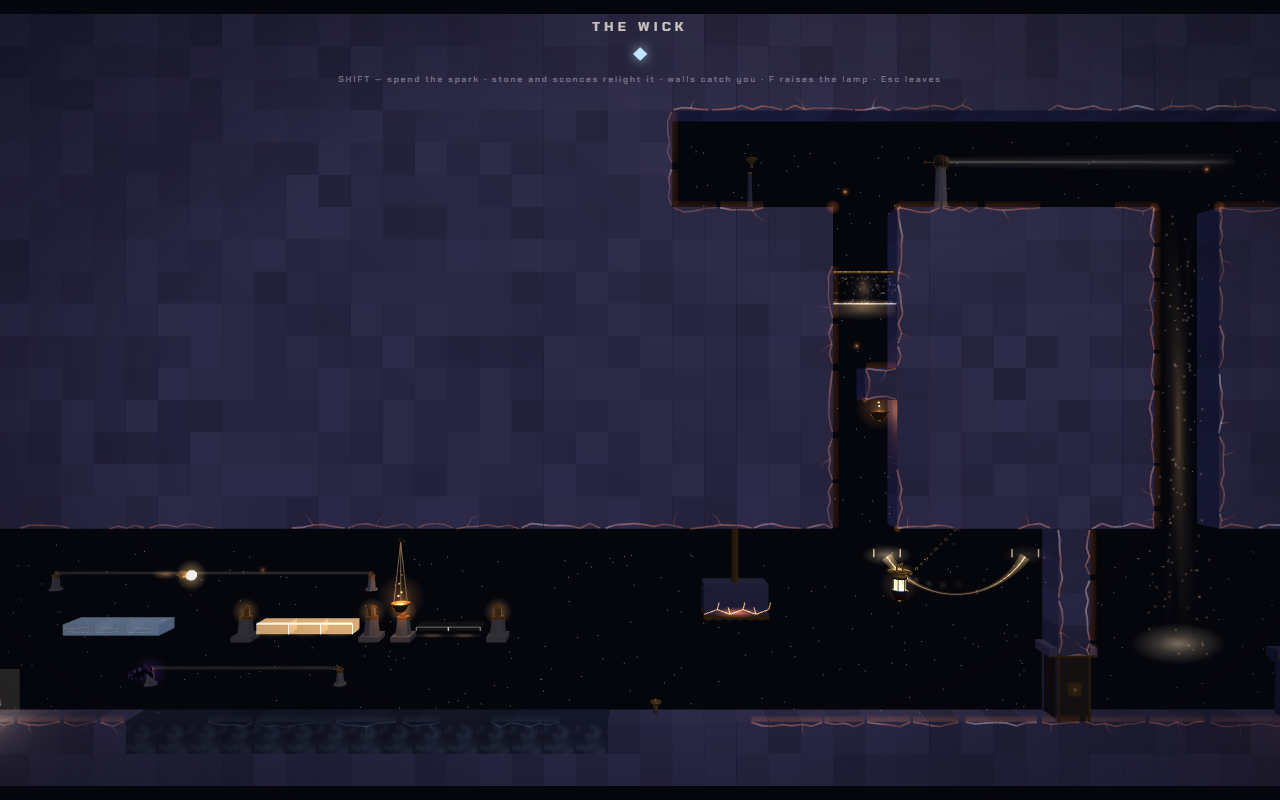
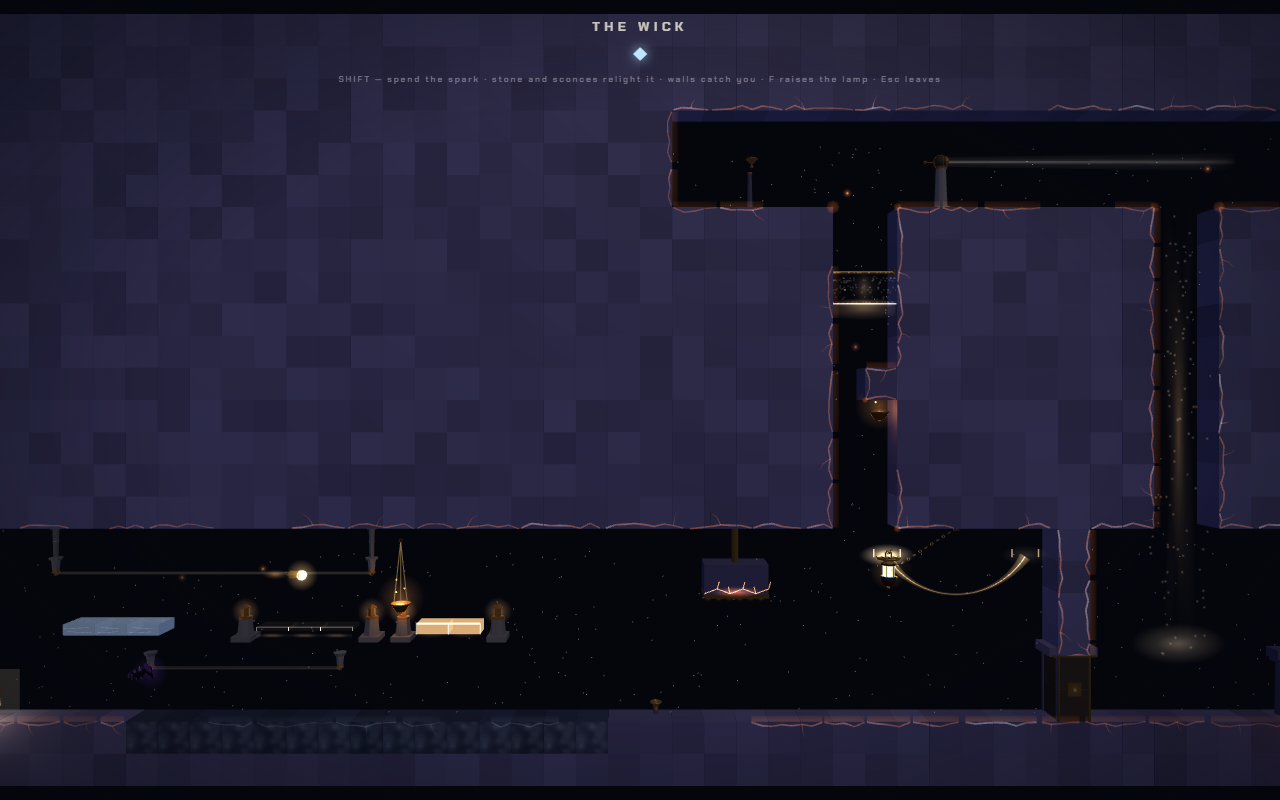
No rail post floats
Reported: a bolt rail strung between two posts hanging in mid-air. Stated as a
rule rather than a fix, so it holds for angles nobody has authored yet.

railAnchor() searches out from each rail endpoint for the nearest stone --
floor first, because a post that stands reads as holding the cable up, then
ceiling, then either wall -- and returns the direction and the distance to
that surface. The post turns to face its anchor and buildRailMast() builds a
leg to fit, with a bronze collar every course or so, so a long one reads as
built rather than extruded. One rule covers a floor stand, a ceiling hanger
and a wall bracket, level or plumb or anything between, and none of them is a
special case.

`lint · no rail post floats` asks it of the SEATED span, so it measures what
the room actually built. 44 endpoints, none floating.

Deliberately NOT changed: where a rail hangs. An earlier pass moved every
horizontal rail down to a course above the ground so a standing body could not
walk beneath it. That is level design, it buried three cable runs in rock, and
it is not what was asked for. Reverted -- rails keep their authored height.

46/46 checks, vaultfit clean, tsc clean.

diff --git a/src/game/vault.ts b/src/game/vault.ts
@@ -10,7 +10,7 @@ import {
   Act, actOf, LATTICE, softDisc, drankStain, glowMat,
   buildSconce, SconceMount, SCONCE_FLAME_Y, buildBrazier,
   buildEmitter, seatEmitter, EMITTER_REACH, coneGeometry, coneMaterial, EmitterParts,
-  buildRailPost, buildBolt, BoltParts, buildSnuffer, MothParts,
+  buildRailPost, buildRailMast, buildBolt, BoltParts, buildSnuffer, MothParts,
   buildCenser, CenserParts, buildArcTelegraph, ArcTelegraph, buildChain,
   buildCrusher, buildRime, RimeParts,
   buildPier, buildDeck, DeckParts, buildDoorway, buildDoorRune, DoorRuneParts,
@@ -739,16 +739,23 @@ export class VaultRun {
     // thief — and never the unlight's ember, because it steals, it does not
     // kill.
     this.shuttleSpan = (this.def.shuttles ?? []).map(s2 => {
+      const asIs = { x0: s2.x0, y0: s2.y0, x1: s2.x1, y1: s2.y1 };
+      if (s2.snuff) return asIs;             // a moth is a patrol, not a fixture
       const vertical = Math.abs(s2.y1 - s2.y0) > Math.abs(s2.x1 - s2.x0);
-      if (!vertical || s2.snuff) return { x0: s2.x0, y0: s2.y0, x1: s2.x1, y1: s2.y1 };
-      const x = s2.x0;
-      let top = Math.min(s2.y0, s2.y1), bot = Math.max(s2.y0, s2.y1);
-      while (top > 1 && !this.solidTile(x, top - 1)) top--;
-      while (bot < this.p.h - 2 && !this.solidTile(x, bot + 1)) bot++;
-      // keep the authored direction, so `phase` still means what it meant
-      return s2.y0 <= s2.y1
-        ? { x0: x, y0: top, x1: x, y1: bot }
-        : { x0: x, y0: bot, x1: x, y1: top };
+      if (vertical) {
+        const x = s2.x0;
+        let top = Math.min(s2.y0, s2.y1), bot = Math.max(s2.y0, s2.y1);
+        while (top > 1 && !this.solidTile(x, top - 1)) top--;
+        while (bot < this.p.h - 2 && !this.solidTile(x, bot + 1)) bot++;
+        // keep the authored direction, so `phase` still means what it meant
+        return s2.y0 <= s2.y1
+          ? { x0: x, y0: top, x1: x, y1: bot }
+          : { x0: x, y0: bot, x1: x, y1: top };
+      }
+      // A horizontal rail keeps the height it was authored at. Where it hangs
+      // is level design; that its posts are bolted to something is not, and
+      // that is handled once for every rail by railAnchor below.
+      return asIs;
     });
 
     for (const [si, s2] of (this.def.shuttles ?? []).entries()) {
@@ -771,17 +778,28 @@ export class VaultRun {
       // A post stands on what it is bolted to. On a vertical rail that is the
       // ceiling at one end and the floor at the other, so the upper one is
       // turned over to hang from its stone rather than stand on air.
-      const vert = sp.x0 === sp.x1 && sp.y0 !== sp.y1;
-      for (const [px2, py2, upper] of [[ax, ay, 1], [bx, by, 0]] as [number, number, number][]) {
+      // NO RAIL POST FLOATS. Whatever the rail's angle — level, plumb or
+      // anything between — each end is bolted to the nearest stone, and the
+      // leg is built to whatever length that takes. The post turns to face
+      // its anchor, so one rule covers a floor stand, a ceiling hanger and a
+      // wall bracket without any of them being a special case.
+      for (const [px2, py2] of [[ax, ay], [bx, by]] as [number, number][]) {
+        const a2 = this.railAnchor(px2, py2);
         const post = buildRailPost();
-        if (vert) {
-          const hangs = upper ? sp.y0 < sp.y1 : sp.y1 < sp.y0;
-          post.rotation.z = hangs ? Math.PI : 0;
-          post.position.set(px2, py2 + (hangs ? 0.28 : -0.28), 0.02);
-        } else {
+        if (!a2) {                      // nothing within reach: leave it be
           post.position.set(px2, py2 - 0.28, 0.02);
+          this.scene.add(post);
+          continue;
         }
-        this.scene.add(post);
+        const [dx2, dy2] = a2.dir;
+        // the post's own axis runs down its -y, so turn that onto the anchor
+        const th = Math.atan2(dx2, -dy2);
+        post.rotation.z = th;
+        post.position.set(px2 + dx2 * 0.28, py2 + dy2 * 0.28, 0.02);
+        const mast = buildRailMast(a2.reach - 0.48);
+        mast.rotation.z = th;
+        mast.position.set(px2 + dx2 * 0.48, py2 + dy2 * 0.48, 0.02);
+        this.scene.add(post, mast);
       }
       this.scene.add(rail, rail2);
       if (s2.snuff) {
@@ -2216,6 +2234,34 @@ export class VaultRun {
       x: sp.x0 + 0.5 + (sp.x1 - sp.x0) * ping + ox,
       y: -(sp.y0 + 0.5) - (sp.y1 - sp.y0) * ping + oy,
     };
+  }
+
+  /**
+   * What a rail post is bolted to: the nearest stone, floor first.
+   *
+   * Floor wins ties because a post that stands reads as holding the cable up,
+   * which is what a cable wants; a hanger and a bracket are what you fall back
+   * on when there is no floor within reach. Returns the direction to the stone
+   * and how far the surface is in world units, so the leg can be built to fit.
+   */
+  railAnchor(wx: number, wy: number): { dir: [number, number]; reach: number } | null {
+    const tx = Math.floor(wx), ty = Math.floor(-wy);
+    const MAX = 20;
+    let best: { dir: [number, number]; reach: number } | null = null;
+    const dirs: [number, number][] = [[0, -1], [0, 1], [-1, 0], [1, 0]];
+    for (const [dx, dy] of dirs) {
+      for (let k = 1; k <= MAX; k++) {
+        const cx = tx + dx * k, cy = ty - dy * k;
+        if (!this.solidTile(cx, cy)) continue;
+        // the face of that tile, not its middle
+        const reach = dx !== 0
+          ? Math.abs((cx + (dx > 0 ? 0 : 1)) - wx)
+          : Math.abs(-(cy + (dy > 0 ? 1 : 0)) - wy);
+        if (!best || reach < best.reach - 1e-6) best = { dir: [dx, dy], reach };
+        break;
+      }
+    }
+    return best && best.reach > 0.5 ? best : (best ? { ...best, reach: 0.5 } : null);
   }
 
   /**

diff --git a/src/game/vaultkit.ts b/src/game/vaultkit.ts
@@ -656,6 +656,30 @@ export function buildRailPost(): THREE.Group {
   return g;
 }
 
+/**
+ * The leg a rail post stands on. A cable is held up by something; how far that
+ * something has to reach is the room's business, not the author's, so the mast
+ * is built to order from the post's foot down to the stone beneath it.
+ */
+export function buildRailMast(drop: number): THREE.Group {
+  const g = new THREE.Group();
+  if (drop <= 0.02) return g;
+  const stone = stoneMat(0x8a877f);
+  const shaft = new THREE.Mesh(new THREE.CylinderGeometry(0.07, 0.095, drop, 7), stone);
+  shaft.position.y = -drop / 2;
+  const foot = new THREE.Mesh(new THREE.CylinderGeometry(0.15, 0.19, 0.09, 8), stone);
+  foot.position.y = -drop + 0.045;
+  g.add(shaft, foot);
+  // a collar every course or so, so a long leg reads as built and not extruded
+  for (let d = 0.55; d < drop - 0.12; d += 0.7) {
+    const band = new THREE.Mesh(new THREE.TorusGeometry(0.085, 0.018, 4, 8), bronzeMat());
+    band.rotation.x = Math.PI / 2;
+    band.position.y = -d;
+    g.add(band);
+  }
+  return g;
+}
+
 export interface BoltParts {
   group: THREE.Group;
   /** the glass head — what the lint reads, and what you see coming */
